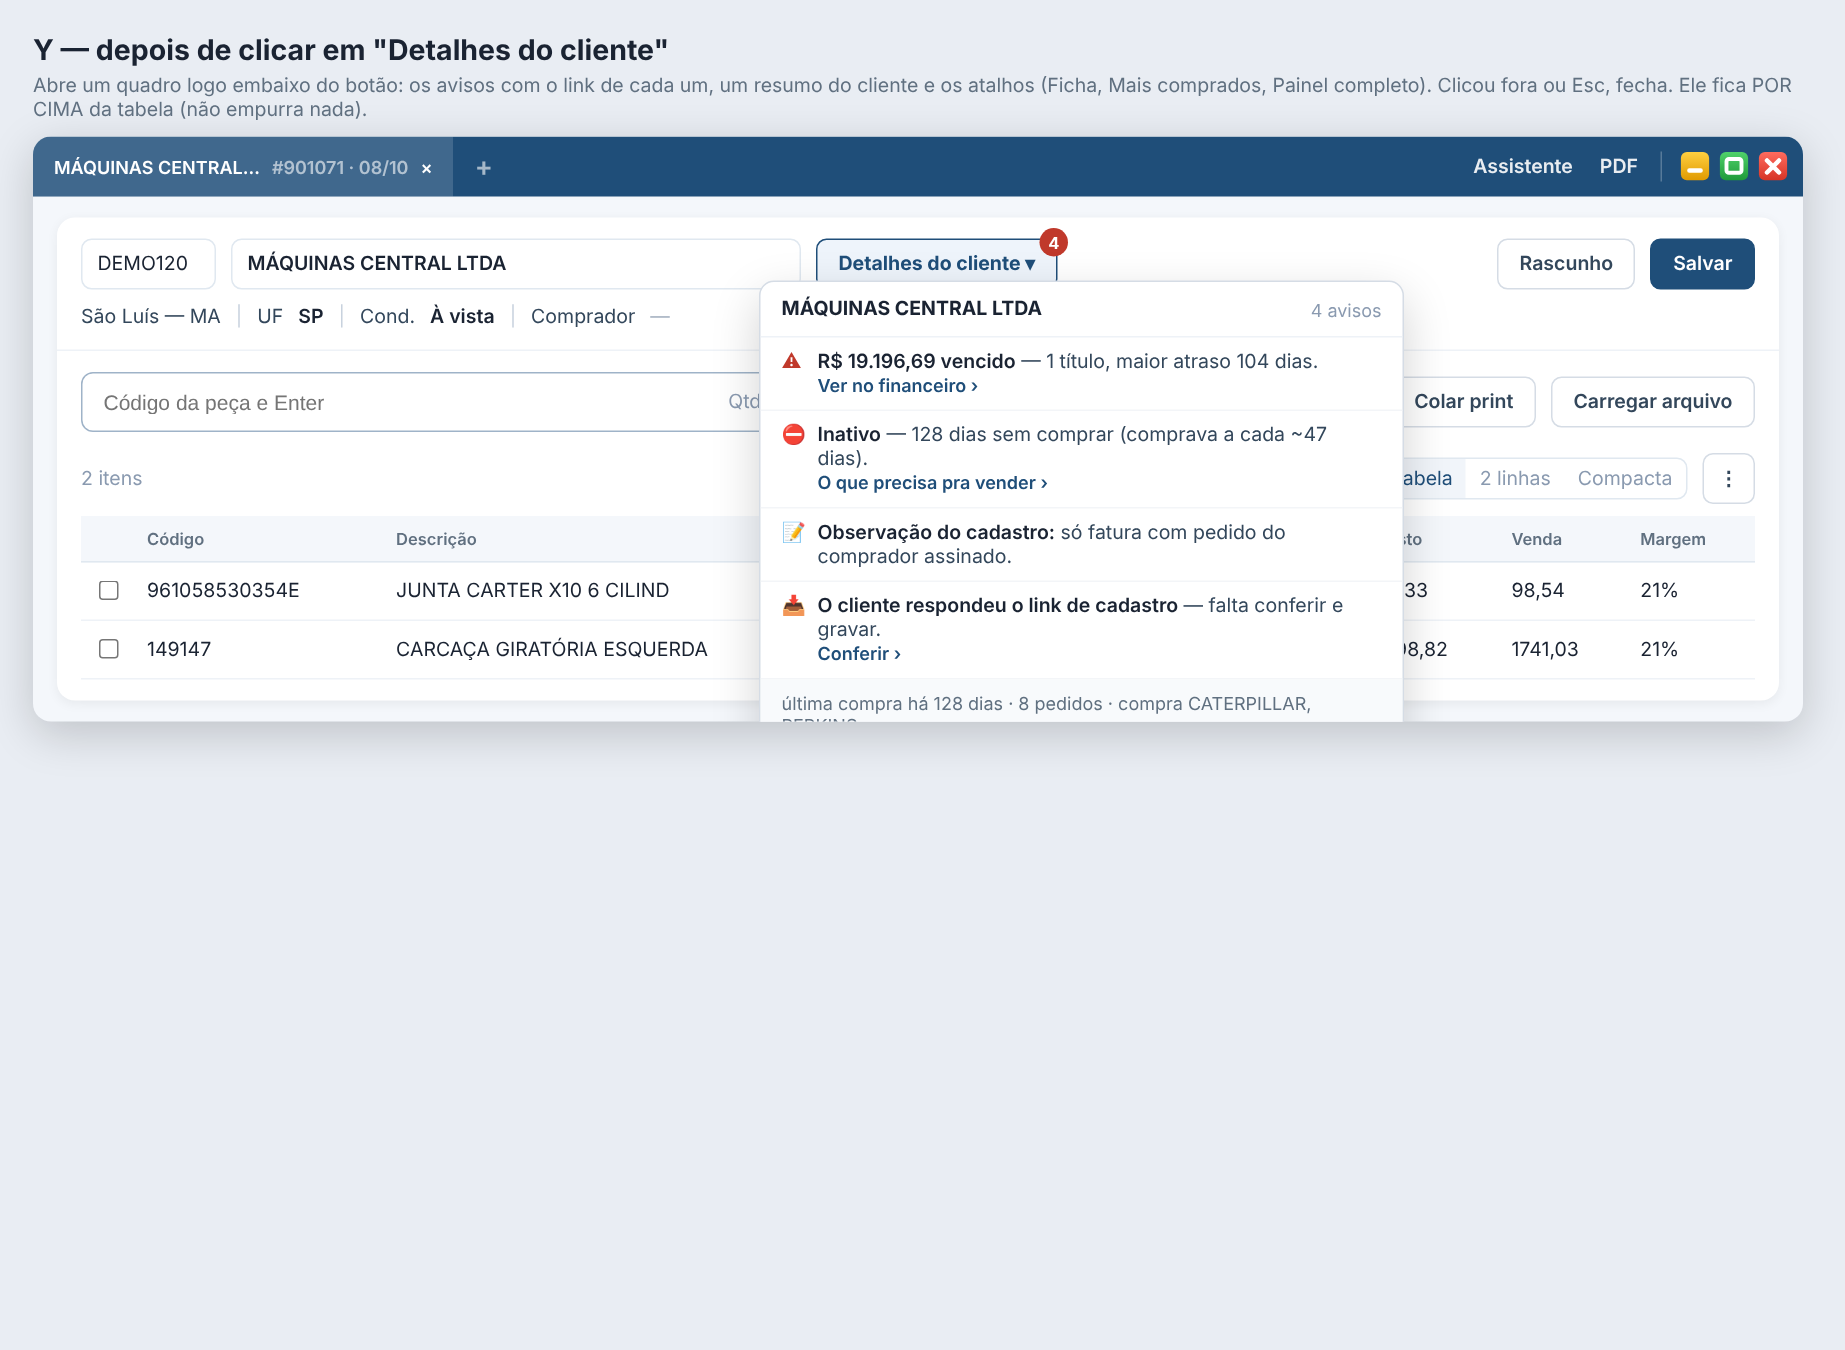
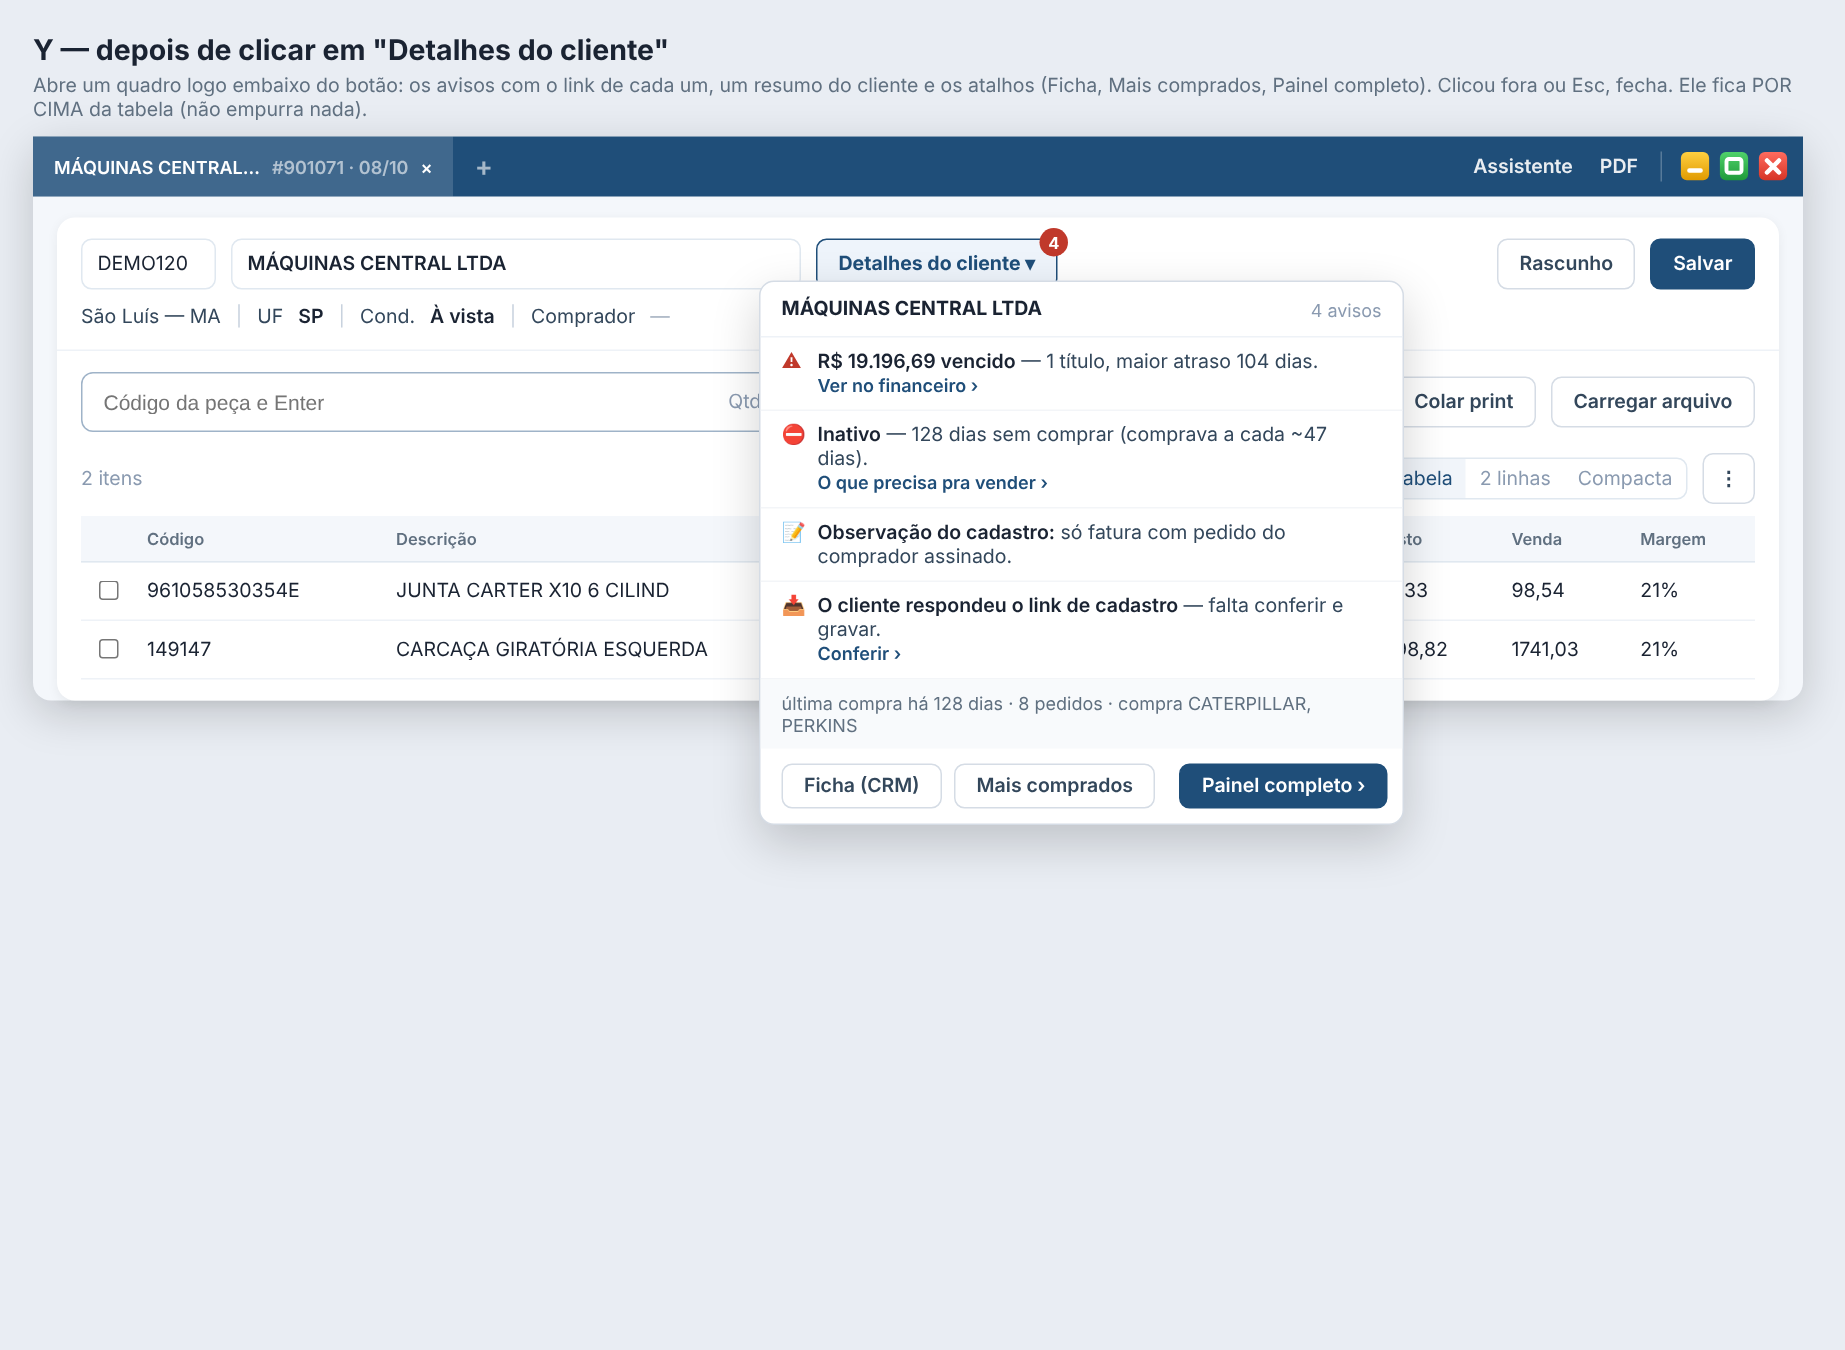
docs: prévia Y aberto sem corte
Claude-Session: https://claude.ai/code/session_017CJdXmBTS4bgt1uhFF9W9e

Changed region(s): [[0.0, 0.4978, 0.9886, 0.6222]]

diff --git a/docs/referencias/cotacao-reorganizar/previa-y-aberto.html b/docs/referencias/cotacao-reorganizar/previa-y-aberto.html
@@ -57,6 +57,6 @@ var POP='<div style="position:relative;height:0"><div style="position:absolute;l
 AV.map(function(a){return '<div class="t" style="padding:8px 14px;border-bottom:1px solid #f3f5f8;display:flex;gap:8px;align-items:flex-start"><span style="width:16px;color:'+a[0]+'">'+a[2]+'</span><div style="flex:1">'+a[3]+(a[4]?'<div><span class="lnk" style="font-size:12px">'+a[4]+' ›</span></div>':'')+'</div></div>';}).join('')+
 '<div class="t" style="padding:8px 14px;background:#F8FAFC;color:#607080;font-size:12px">última compra há 128 dias · 8 pedidos · compra CATERPILLAR, PERKINS</div>'+
 '<div class="row" style="padding:10px 14px;gap:8px"><span class="btn" style="height:30px">Ficha (CRM)</span><span class="btn" style="height:30px">Mais comprados</span><span class="sp"></span><span class="btn salvar" style="height:30px">Painel completo ›</span></div></div></div>';
-var YA='<h2>Y — depois de clicar em "Detalhes do cliente"</h2><p class="nota">Abre um quadro logo embaixo do botão: os avisos com o link de cada um, um resumo do cliente e os atalhos (Ficha, Mais comprados, Painel completo). Clicou fora ou Esc, fecha. Ele fica POR CIMA da tabela (não empurra nada).</p><div class="win">'+BAR+'<div class="card">'+TOPO('<span class="btn" style="border:1.5px solid #1F4E79;color:#1F4E79;font-weight:700;position:relative;background:#EEF4FB">Detalhes do cliente ▾ <span style="position:absolute;top:-8px;right:-8px;background:#C0392B;color:#fff;border-radius:10px;font-size:11px;min-width:19px;height:19px;display:flex;align-items:center;justify-content:center;padding:0 5px">4</span></span>')+POP+LINHA+RESTO;
+var YA='<h2>Y — depois de clicar em "Detalhes do cliente"</h2><p class="nota">Abre um quadro logo embaixo do botão: os avisos com o link de cada um, um resumo do cliente e os atalhos (Ficha, Mais comprados, Painel completo). Clicou fora ou Esc, fecha. Ele fica POR CIMA da tabela (não empurra nada).</p><div class="win" style="overflow:visible;margin-bottom:260px">'+BAR+'<div class="card">'+TOPO('<span class="btn" style="border:1.5px solid #1F4E79;color:#1F4E79;font-weight:700;position:relative;background:#EEF4FB">Detalhes do cliente ▾ <span style="position:absolute;top:-8px;right:-8px;background:#C0392B;color:#fff;border-radius:10px;font-size:11px;min-width:19px;height:19px;display:flex;align-items:center;justify-content:center;padding:0 5px">4</span></span>')+POP+LINHA+RESTO;
 document.write(YA);
 </script></body></html>
